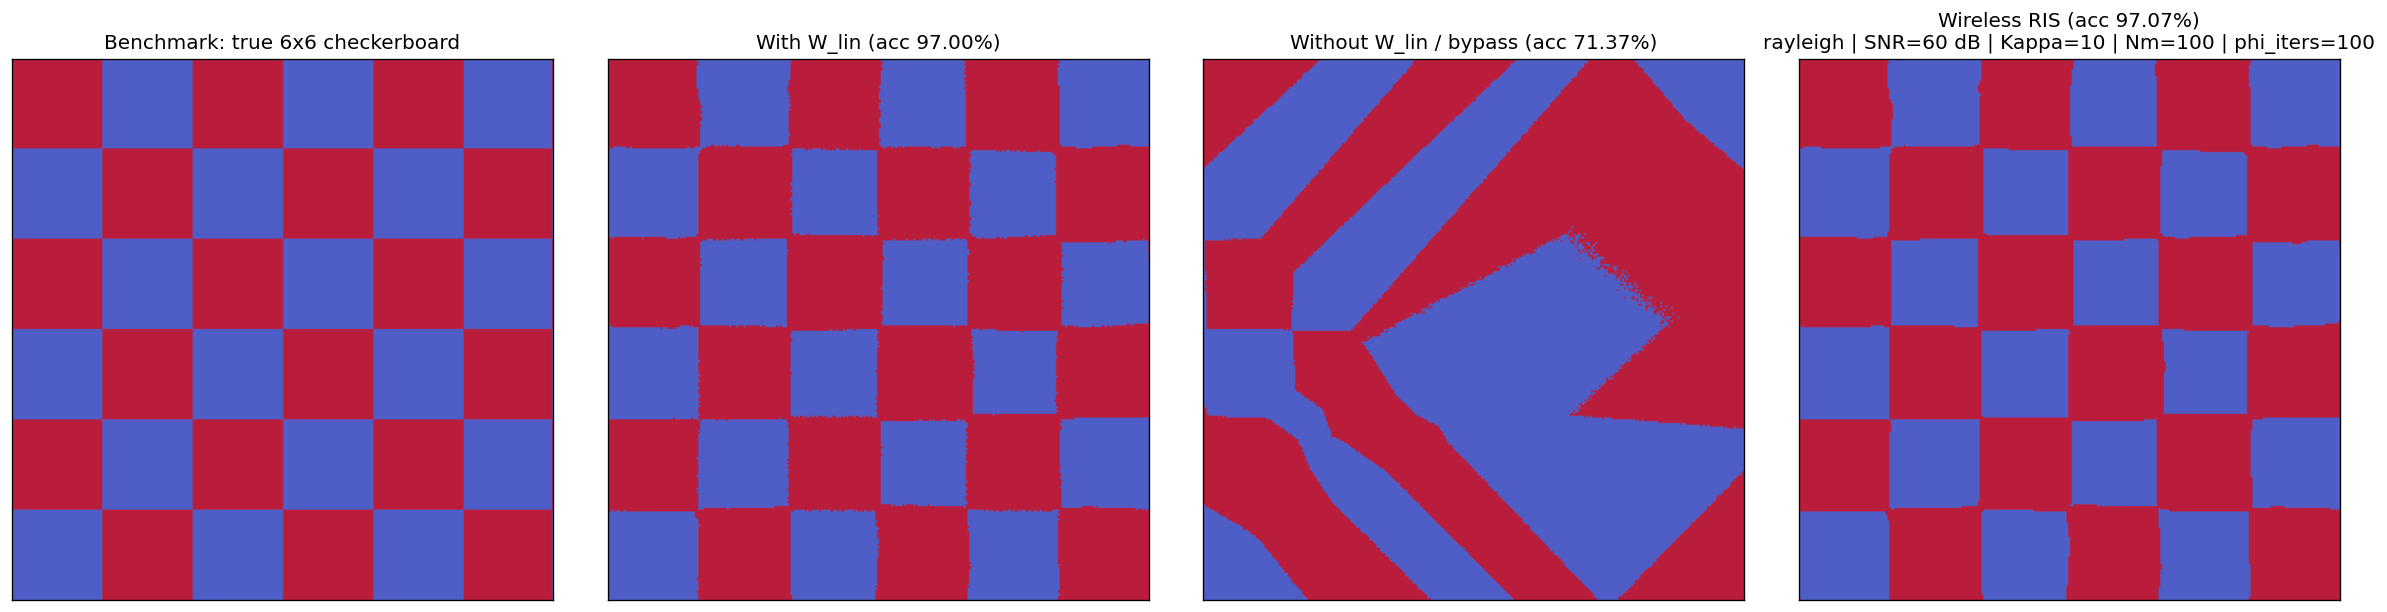
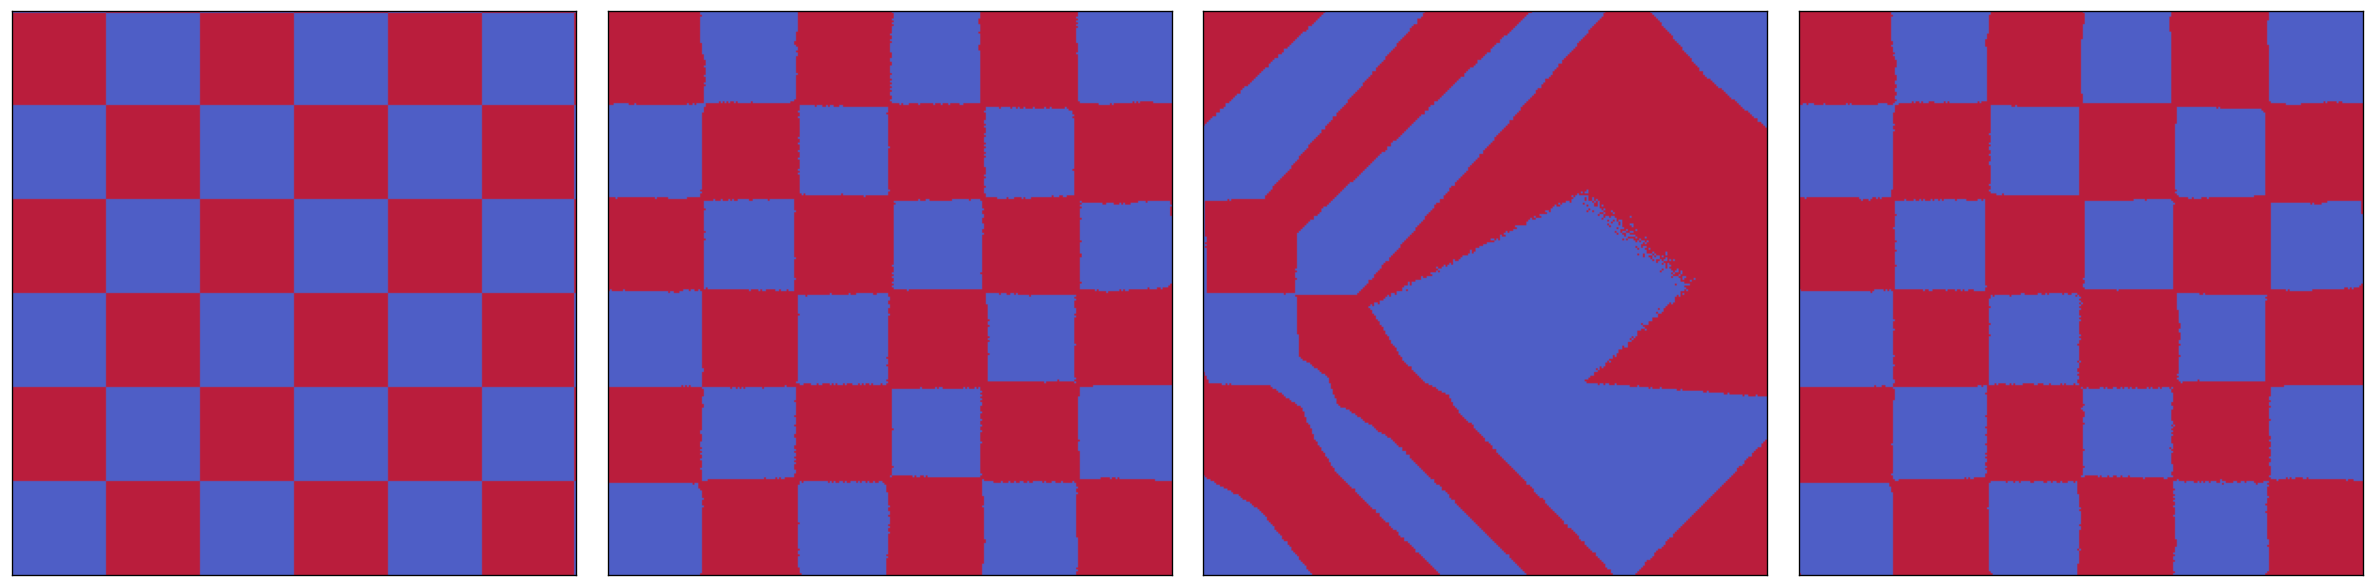
update

diff --git a/checkboard/wlin_necessity_checkerboard.py b/checkboard/wlin_necessity_checkerboard.py
@@ -380,13 +380,28 @@ def _show_or_close_plot(plt, fig, path):
     plt.close(fig)
 
 
+def _save_panel_image(plt, image, path):
+    """Save one decision-region panel as a square PNG with no axes/title."""
+    fig, ax = plt.subplots(1, 1, figsize=(5, 5))
+    ax.imshow(image, origin="lower", extent=(0, 1, 0, 1), cmap="coolwarm", alpha=0.9)
+    ax.set_xticks([])
+    ax.set_yticks([])
+    fig.tight_layout()
+    os.makedirs(os.path.dirname(path), exist_ok=True)
+    fig.savefig(path, dpi=120, bbox_inches="tight")
+    plt.close(fig)
+    print(f"  saved decision-boundary plot to: {path}")
+
+
 @torch.no_grad()
 def plot_decision_comparison(models, accuracies, device, grid_n, path=None, res: int = 300,
-                             wireless_cfg=None):
+                             wireless_cfg=None, separate_plots=False):
     """Show or optionally save ground-truth / with-W_lin / bypass regions.
 
     When `path` is None, nothing is written to disk — figure is only displayed
     when matplotlib has an inline or GUI display. When `path` is set, also saves a PNG.
+    When `separate_plots=True` and `path` is a directory, save each panel as its own PNG
+    under that directory (benchmark / with_wlin / bypass / wireless).
     """
     plt = _matplotlib_pyplot()
 
@@ -414,22 +429,25 @@ def plot_decision_comparison(models, accuracies, device, grid_n, path=None, res:
         )
         wireless_pred = wlogits.argmax(1).cpu().numpy().reshape(res, res)
 
-    n_panels = 4 if wireless_pred is not None else 3
-    fig, axes = plt.subplots(1, n_panels, figsize=(5 * n_panels, 5))
-    axes[0].imshow(truth, origin="lower", extent=(0, 1, 0, 1), cmap="coolwarm", alpha=0.9)
-    axes[0].set_title(f"Benchmark: true {grid_n}x{grid_n} checkerboard")
-    axes[1].imshow(preds[True], origin="lower", extent=(0, 1, 0, 1), cmap="coolwarm", alpha=0.9)
-    axes[1].set_title(f"With W_lin (acc {accuracies[True]:.2f}%)")
-    axes[2].imshow(preds[False], origin="lower", extent=(0, 1, 0, 1), cmap="coolwarm", alpha=0.9)
-    axes[2].set_title(f"Without W_lin / bypass (acc {accuracies[False]:.2f}%)")
+    panels = [
+        ("benchmark", truth),
+        ("with_wlin", preds[True]),
+        ("bypass", preds[False]),
+    ]
     if wireless_pred is not None:
-        axes[3].imshow(wireless_pred, origin="lower", extent=(0, 1, 0, 1), cmap="coolwarm", alpha=0.9)
-        settings_title = wireless_settings_title(
-            wireless_cfg["channel_type"], wireless_cfg["snr_db"], wireless_cfg["kappa"],
-            wireless_cfg["n_m"], wireless_cfg["phi_iters"],
-        )
-        axes[3].set_title(f"Wireless RIS (acc {accuracies['wireless']:.2f}%)\n{settings_title}")
-    for ax in axes:
+        panels.append(("wireless", wireless_pred))
+
+    if separate_plots and path is not None:
+        for name, image in panels:
+            _save_panel_image(plt, image, os.path.join(path, f"{name}.png"))
+        return
+
+    n_panels = len(panels)
+    fig, axes = plt.subplots(1, n_panels, figsize=(5 * n_panels, 5))
+    if n_panels == 1:
+        axes = [axes]
+    for ax, (_, image) in zip(axes, panels):
+        ax.imshow(image, origin="lower", extent=(0, 1, 0, 1), cmap="coolwarm", alpha=0.9)
         ax.set_xticks([])
         ax.set_yticks([])
     fig.tight_layout()
@@ -540,7 +558,7 @@ def run_once(grid_n, hidden, n_train, n_test, batch_size, epochs, lr, weight_dec
              wireless=False, channel_type="geometric_rayleigh", kappa=10, snr_db=10.0, n_m=100, phi_iters=100,
              load_only=False, model_with_path=None, model_bypass_path=None,
              phi_iters_sweep=None, snr_sweep=None, kappa_sweep=None, n_m_sweep=None,
-             decision_plot=True, save_plot_files=False):
+             decision_plot=True, save_plot_files=False, separate_plots=False):
     """Train (or load) both routing modes and return (acc_with, acc_bypass).
 
     When `load_only=True`, skip training and load saved checkpoints from
@@ -553,7 +571,8 @@ def run_once(grid_n, hidden, n_train, n_test, batch_size, epochs, lr, weight_dec
     added as a 4th panel.
 
     Plots are shown when running in Interactive Window. PNG files are written
-    only when `save_plot_files=True`.
+    only when `save_plot_files=True`. When `separate_plots=True`, decision panels
+    are saved as individual PNGs under `plots/epochs_<epochs>/`.
     """
     x_te, y_te = make_checkerboard(n_test, grid_n=grid_n, seed=seed + 1)
     if not load_only:
@@ -613,13 +632,17 @@ def run_once(grid_n, hidden, n_train, n_test, batch_size, epochs, lr, weight_dec
     if make_plots:
         # Display-only by default (path=None). PNG only when save_plot_files=True.
         if decision_plot and not wireless_sweep_requested:
-            plot_path = (
-                os.path.join(plot_dir, f"epochs_{epochs}.png") if save_plot_files else None
-            )
+            if save_plot_files and separate_plots:
+                plot_path = os.path.join(plot_dir, f"epochs_{epochs}")
+            elif save_plot_files:
+                plot_path = os.path.join(plot_dir, f"epochs_{epochs}.png")
+            else:
+                plot_path = None
             plot_decision_comparison(
                 eval_models, acc, device, grid_n=grid_n,
                 path=plot_path,
                 wireless_cfg=wireless_cfg,
+                separate_plots=separate_plots,
             )
         if wireless_cfg is not None:
             channel_label = channel_type.replace("geometric_", "")
@@ -676,6 +699,9 @@ if __name__ == "__main__":
                         help="Show decision-boundary plots (Interactive Window): true or false")
     parser.add_argument("--save_plots", type=str, default="false", choices=["true", "false"],
                         help="Also write plot PNGs under plots/: true or false (default false)")
+    parser.add_argument("--sub", type=str, default="false", choices=["true", "false"],
+                        help="With --save_plots true, save decision panels as separate PNGs "
+                             "under plots/epochs_<epochs>/ (benchmark, with_wlin, bypass, wireless)")
     parser.add_argument("--save", type=str, default="true", choices=["true", "false"],
                         help="Save trained models before loading them for evaluation: true or false")
     parser.add_argument("--load", type=str, default="true", choices=["true", "false"],
@@ -740,12 +766,14 @@ if __name__ == "__main__":
     SWEEP = SWEEP or args.sweep
     make_plots = args.make_plots == "true" and not args.no_plots
     save_plot_files = args.save_plots == "true"
+    separate_plots = args.sub == "true"
 
     device = "cuda" if torch.cuda.is_available() else "cpu"
     print(f"Using device: {device}")
     print(f"Mode: {mode}")
     print(f"Make plots: {make_plots}")
     print(f"Save plot files: {save_plot_files}")
+    print(f"Separate subplot files: {separate_plots}")
     print(f"Save models: {save_models}")
     print(f"Load only: {load_only}")
     print(f"Wireless RIS panel: {wireless}")
@@ -773,6 +801,7 @@ if __name__ == "__main__":
                 phi_iters_sweep=phi_iters_sweep, snr_sweep=snr_sweep,
                 kappa_sweep=kappa_sweep, n_m_sweep=n_m_sweep,
                 decision_plot=False, save_plot_files=save_plot_files,
+                separate_plots=separate_plots,
             )
             results.append((g, acc_with, acc_bypass))
         for g, acc_with, acc_bypass in results:
@@ -790,7 +819,7 @@ if __name__ == "__main__":
             model_bypass_path=args.model_bypass,
             phi_iters_sweep=phi_iters_sweep, snr_sweep=snr_sweep,
             kappa_sweep=kappa_sweep, n_m_sweep=n_m_sweep,
-            save_plot_files=save_plot_files,
+            save_plot_files=save_plot_files, separate_plots=separate_plots,
         )
         if wireless:
             print(f"wireless : {channel_accuracy:.2f}%")
